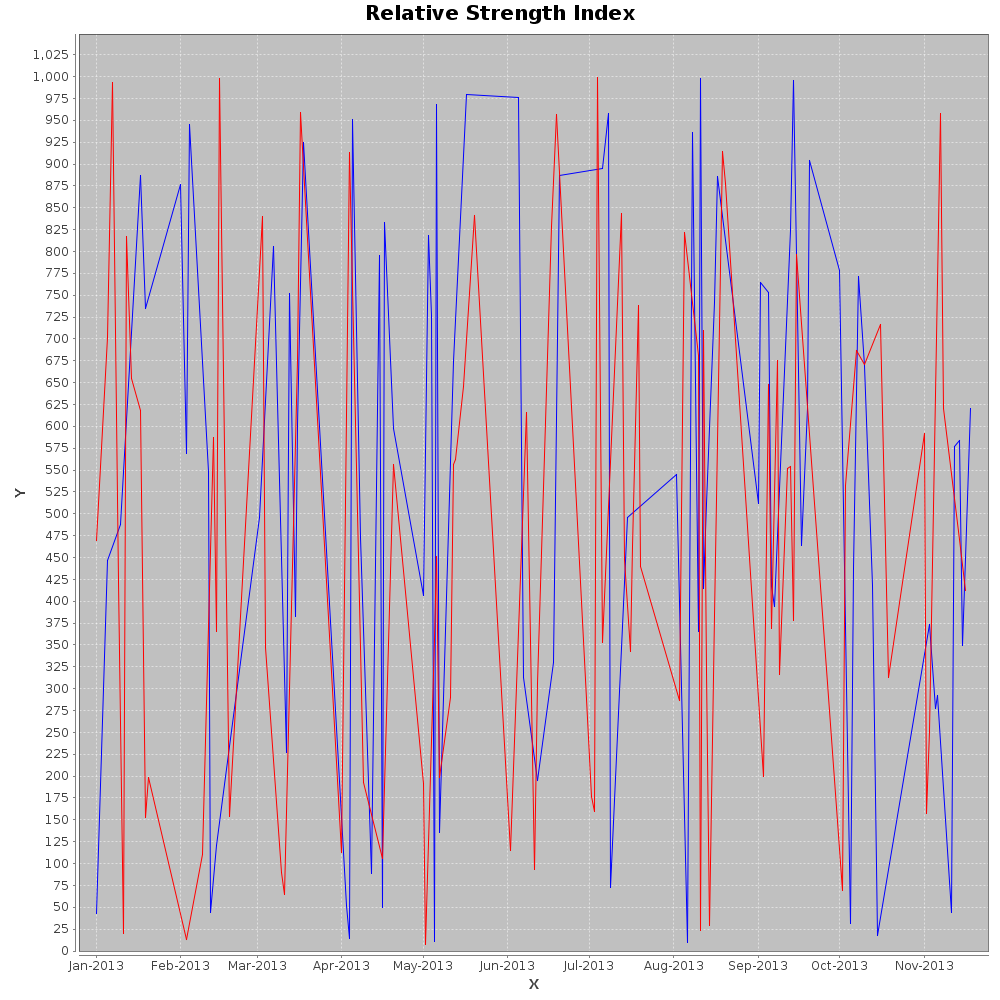
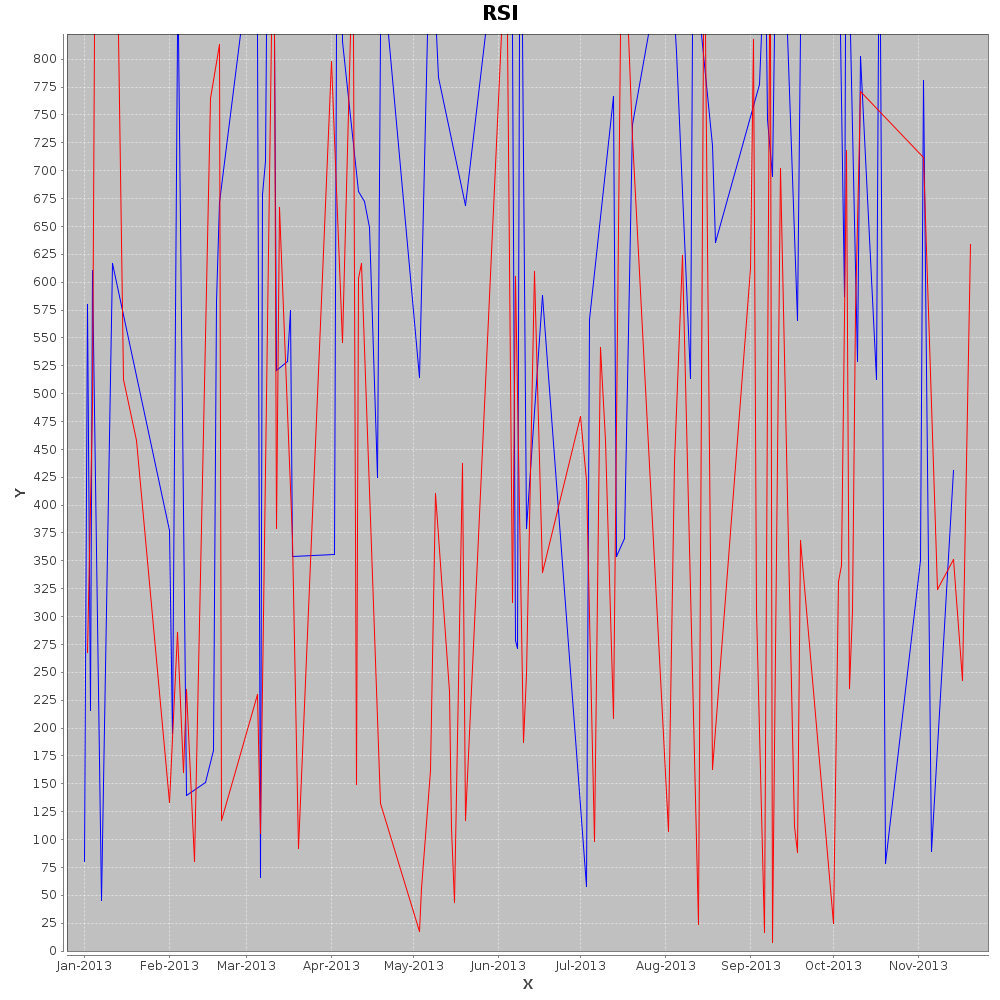
updated plotwrapper

diff --git a/src/edu/brown/cs32/atian/crassus/gui/PlotWrapper.java b/src/edu/brown/cs32/atian/crassus/gui/PlotWrapper.java
@@ -41,6 +41,9 @@ public class PlotWrapper implements StockPlot
 	private boolean rsChartGenerated = false;
 	private String xAxisTitle = "X";
 	private String yAxisTitle = "Y";
+	private String rsXAxisTitle = "X";
+	private String rsYAxisTitle = "Y";
+	private String rsChartTitle = "RSI";
 	private JFreeChart primaryChart;
 	private JFreeChart rsChart;
 	
@@ -122,7 +125,7 @@ public class PlotWrapper implements StockPlot
 			rsChartGenerated = true;
 		}
 		
-		JFreeChart chart = generateChart("Relative Strength Index", rsSeries, rsSeriesColors);
+		JFreeChart chart = generateRSChart(rsSeries, rsSeriesColors);
 		
 		rsChart = chart;
 		
@@ -130,7 +133,7 @@ public class PlotWrapper implements StockPlot
 	}
 
 	@Override
-	public void setRS(boolean isRsOn) throws CantTurnRsOnAfterChartsRetreivedException
+	public void setRS(boolean isRsOn) //throws CantTurnRsOnAfterChartsRetreivedException
 	{
 		if(!primaryChartGenerated)
 		{
@@ -138,7 +141,7 @@ public class PlotWrapper implements StockPlot
 		}
 		else
 		{
-			throw new CantTurnRsOnAfterChartsRetreivedException();
+			//throw new CantTurnRsOnAfterChartsRetreivedException();
 		}
 	}
 	
@@ -156,11 +159,33 @@ public class PlotWrapper implements StockPlot
 		return chart;
 	}
 	
+	private JFreeChart generateRSChart(TimeSeriesCollection series, List<Color> colors)
+	{
+		JFreeChart chart = ChartFactory.createTimeSeriesChart(rsChartTitle, rsXAxisTitle, rsYAxisTitle, series, false, false, false);
+		XYPlot plot  = (XYPlot)chart.getPlot();
+		XYItemRenderer ren = plot.getRenderer();
+		
+		for(int i = 0; i < colors.size(); i++)
+		{
+			ren.setSeriesPaint(i, colors.get(i));
+		}
+		
+		return chart;
+	}
+	
 	public void setAxesTitles(String xAxisTitle, String yAxisTitle)
 	{
 		this.xAxisTitle = xAxisTitle;
 		this.yAxisTitle = yAxisTitle;
 	}
+	
+	public void setRSTitles(String chartTitle, String xAxisTitle, String yAxisTitle)
+	{
+		this.rsChartTitle = chartTitle;
+		this.rsXAxisTitle = xAxisTitle;
+		this.rsYAxisTitle = yAxisTitle;
+	}
+	
 	
 	
 	public static void main(String[] args)
@@ -183,12 +208,12 @@ public class PlotWrapper implements StockPlot
 		SeriesWrapper s1 = new SeriesWrapper(series1, Color.RED);
 		SeriesWrapper s2 = new SeriesWrapper(series2, Color.BLUE);
 		
-		try {
+		//try {
 			pw.setRS(true);
-		} catch (CantTurnRsOnAfterChartsRetreivedException e1) {
+		//} catch (CantTurnRsOnAfterChartsRetreivedException e1) {
 			// TODO Auto-generated catch block
-			e1.printStackTrace();
-		}
+			//e1.printStackTrace();
+		//}
 		
 		pw.addRsSeries(s1);
 		pw.addRsSeries(s2);

diff --git a/src/edu/brown/cs32/atian/crassus/gui/indicatorwindows/BolingerBandPanel.java b/src/edu/brown/cs32/atian/crassus/gui/indicatorwindows/BolingerBandPanel.java
@@ -34,9 +34,10 @@ public class BolingerBandPanel extends JPanel
 	private JDialog parent;
 	private JTextField periods;
 	private JTextField bandWidth;
-	private JLabel yearlyGain = new JLabel("Expected Yearly Gain: (Not tested yet)");
-	private JLabel monthlyGain = new JLabel("Expected Monthly Gain: (Not tested yet)");
-	private JLabel weeklyGain = new JLabel("Expected Weekly Gain: (Not tested yet)");
+	private JLabel expectedGainsLabel = new JLabel("Expected Gains:");
+	private JLabel yearlyGain = new JLabel("Yearly: (Not tested yet)");
+	private JLabel monthlyGain = new JLabel("Monthly: (Not tested yet)");
+	private JLabel weeklyGain = new JLabel("Weekly: (Not tested yet)");
 	private String periodstt = "<html>The number of days when calculating the standard deviation and simple moving average.</html>";
 	private String bandWidthtt = "<html>The number of standard deviations for the outer bands.</html>";
 	
@@ -76,12 +77,7 @@ public class BolingerBandPanel extends JPanel
 		parameters.add(periodsInput);
 		parameters.add(bandWidthInput);
 		
-		JPanel expectedGains = new JPanel();
-		expectedGains.setLayout(new BoxLayout(expectedGains, BoxLayout.Y_AXIS));
-		expectedGains.add(yearlyGain);
-		expectedGains.add(monthlyGain);
-		expectedGains.add(weeklyGain);
-		expectedGains.setBorder(BorderFactory.createCompoundBorder(new EmptyBorder(20,20,20,125), new EtchedBorder()));
+		ExpectedGainsPanel ep = new ExpectedGainsPanel(weeklyGain, monthlyGain, yearlyGain);
 		
 		//middle panel
 		JPanel buttons = new JPanel();
@@ -100,7 +96,7 @@ public class BolingerBandPanel extends JPanel
 		this.setLayout(new BoxLayout(this, BoxLayout.Y_AXIS));
 		this.add(parameters);
 		this.add(buttons);
-		this.add(expectedGains);
+		this.add(ep);
 		
 
 		

diff --git a/src/edu/brown/cs32/atian/crassus/gui/indicatorwindows/ExpectedGainsPanel.java b/src/edu/brown/cs32/atian/crassus/gui/indicatorwindows/ExpectedGainsPanel.java
@@ -1,0 +1,38 @@
+package edu.brown.cs32.atian.crassus.gui.indicatorwindows;
+
+import java.awt.FlowLayout;
+
+import javax.swing.BorderFactory;
+import javax.swing.BoxLayout;
+import javax.swing.JLabel;
+import javax.swing.JPanel;
+import javax.swing.border.EmptyBorder;
+import javax.swing.border.EtchedBorder;
+
+public class ExpectedGainsPanel extends JPanel
+{
+	public ExpectedGainsPanel(JLabel daily, JLabel monthly, JLabel yearly)
+	{
+		
+		this.setLayout(new FlowLayout());//new BoxLayout(this, BoxLayout.Y_AXIS));
+		JPanel expectedGains = new JPanel();
+		expectedGains.setLayout(new BoxLayout(expectedGains, BoxLayout.Y_AXIS));
+		JLabel title = new JLabel("Expected Gains");
+		title.setBorder(BorderFactory.createCompoundBorder(new EmptyBorder(5,5,5,5), new EtchedBorder()));
+		expectedGains.add(title);
+		expectedGains.setBorder(BorderFactory.createCompoundBorder(new EmptyBorder(20,20,20,20), new EtchedBorder()));
+		
+		
+		JPanel secondaryEGains = new JPanel();
+		secondaryEGains.setLayout(new BoxLayout(secondaryEGains, BoxLayout.Y_AXIS));
+		yearly.setBorder(new EmptyBorder(5,5,5,5));
+		monthly.setBorder(new EmptyBorder(5,5,5,5));
+		daily.setBorder(new EmptyBorder(5,5,5,5));
+		secondaryEGains.add(yearly);
+		secondaryEGains.add(monthly);
+		secondaryEGains.add(daily);
+		
+		expectedGains.add(secondaryEGains);
+		this.add(expectedGains);
+	}
+}

diff --git a/src/edu/brown/cs32/atian/crassus/gui/indicatorwindows/AbstractTestListener.java b/src/edu/brown/cs32/atian/crassus/gui/indicatorwindows/AbstractTestListener.java
@@ -29,9 +29,9 @@ public abstract class AbstractTestListener implements ActionListener
 	
 	public void test(Indicator indYearly, Indicator indMonthly, Indicator indDaily)
 	{
-		String yearlyGain = "Expected Five Year Gain: " + Double.toString(indYearly.getTestResults()) + "%";
-		String monthlyGain = "Expected Monthly Gain: " + Double.toString(indMonthly.getTestResults()) + "%";
-		String dailyGain = "Expected Daily Gain: " + Double.toString(indDaily.getTestResults()) + "%";
+		String yearlyGain = "Five Year: " + Double.toString(indYearly.getTestResults()) + "%";
+		String monthlyGain = "Monthly: " + Double.toString(indMonthly.getTestResults()) + "%";
+		String dailyGain = "Daily Gain: " + Double.toString(indDaily.getTestResults()) + "%";
 		
 		System.out.println("testCalled");
 		

diff --git a/src/edu/brown/cs32/atian/crassus/gui/indicatorwindows/MACDPanel.java b/src/edu/brown/cs32/atian/crassus/gui/indicatorwindows/MACDPanel.java
@@ -83,11 +83,7 @@ public class MACDPanel extends JPanel
 		parameters.add(shorterInput);
 		parameters.add(longerInput);
 		
-		JPanel expectedGains = new JPanel();
-		expectedGains.setLayout(new BoxLayout(expectedGains, BoxLayout.Y_AXIS));
-		expectedGains.add(yearlyGain);
-		expectedGains.add(monthlyGain);
-		expectedGains.add(weeklyGain);
+		ExpectedGainsPanel ep = new ExpectedGainsPanel(weeklyGain, monthlyGain, yearlyGain);
 		
 		//middle panel
 		JPanel buttons = new JPanel();
@@ -106,7 +102,7 @@ public class MACDPanel extends JPanel
 		this.setLayout(new BoxLayout(this, BoxLayout.Y_AXIS));
 		this.add(parameters);
 		this.add(buttons);
-		this.add(expectedGains);
+		this.add(ep);
 
 		
 	}

diff --git a/src/edu/brown/cs32/atian/crassus/gui/indicatorwindows/EventWindowFrame.java b/src/edu/brown/cs32/atian/crassus/gui/indicatorwindows/EventWindowFrame.java
@@ -172,6 +172,7 @@ public class EventWindowFrame implements EventWindow {
 			frame.add(currentPanel, BorderLayout.CENTER);
 			frame.setSize(350, 70 + panelDim.height);
 			frame.setMinimumSize(new Dimension(350, 70 + panelDim.height));
+			frame.setMaximumSize(new Dimension(350, 70 + panelDim.height));
 			display();
 		}
 		
